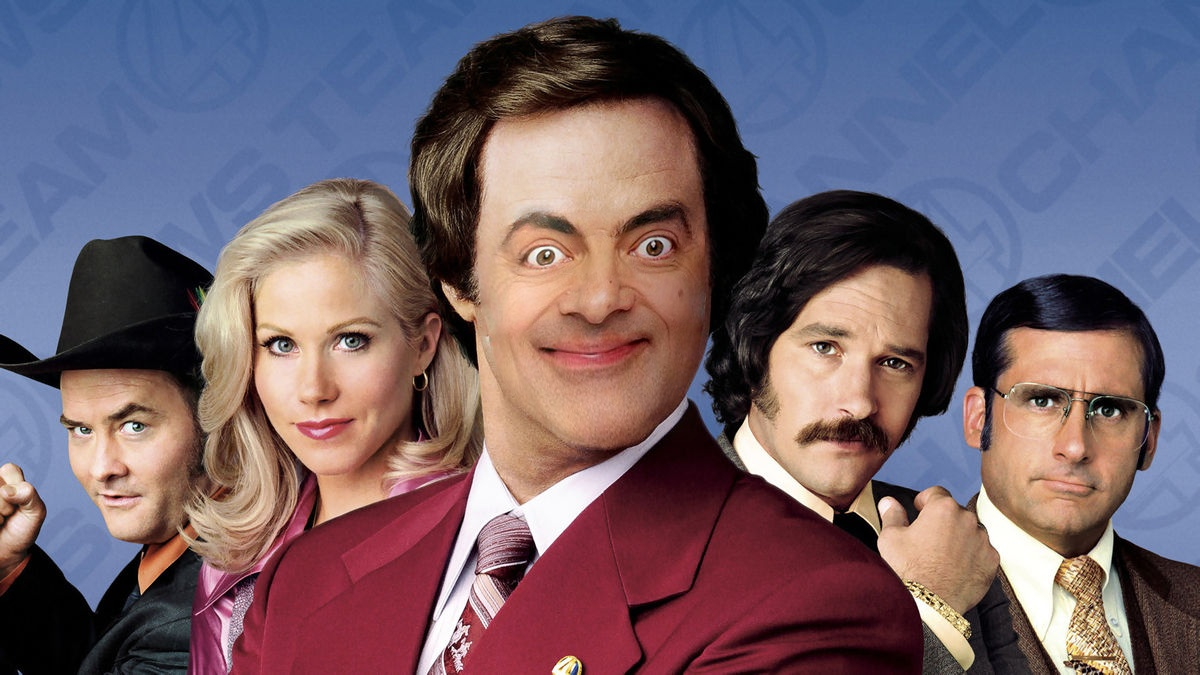
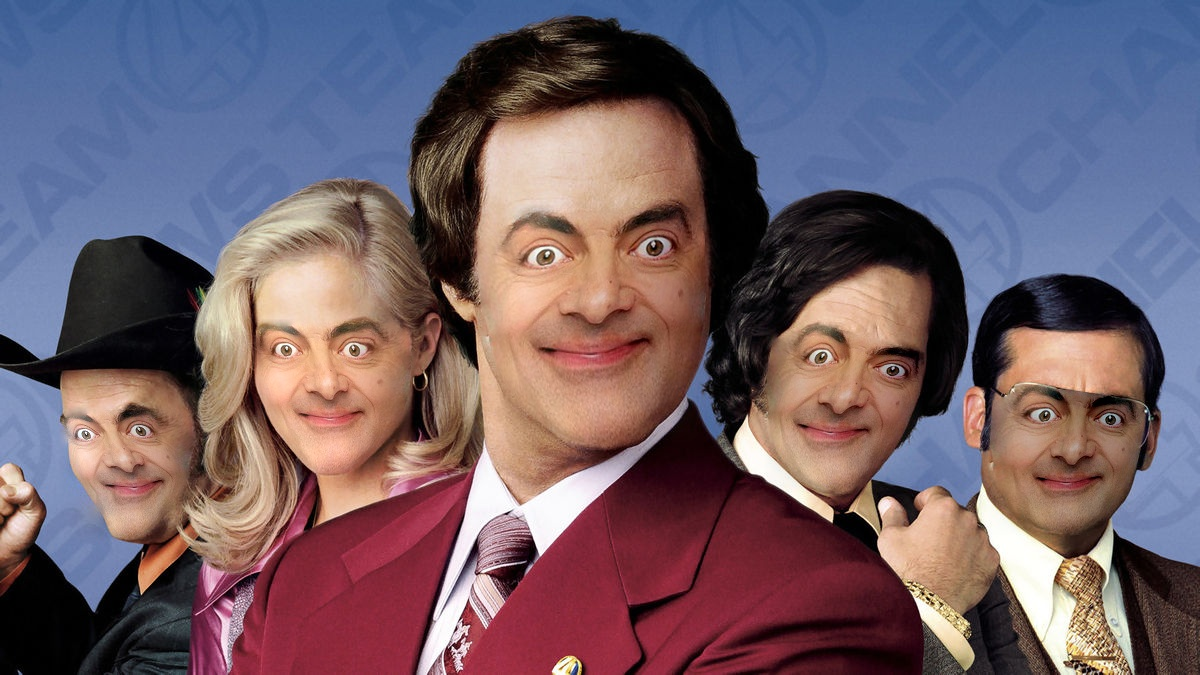
editiong the api to work differt mode options

diff --git a/Service/faceswap.py b/Service/faceswap.py
@@ -1,3 +1,10 @@
+import cv2
+import magic
+import tempfile
+import base64
+import numpy as np
+from PIL import Image
+from faceSwap import FaceSwap
 from inspect import getsourcefile
 import os.path
 import sys
@@ -8,18 +15,11 @@ parent_dir = current_dir[:current_dir.rfind(os.path.sep)]
 
 sys.path.insert(0, parent_dir)
 
-from faceSwap import FaceSwap
-from PIL import Image
-import numpy as np
-import base64
-import tempfile
-import magic
-import cv2
-
 
 def byte_to_img(input_image):
     binary_image = base64.b64decode(input_image)
-    file_format = magic.from_buffer(base64.b64decode(input_image), mime=True).split('/')[1]
+    file_format = magic.from_buffer(
+        base64.b64decode(input_image), mime=True).split('/')[1]
 
     f = tempfile.NamedTemporaryFile(suffix='*.' + str(file_format))
     f.write(binary_image)
@@ -28,7 +28,7 @@ def byte_to_img(input_image):
     return image
 
 
-def face_swap(input_image,meme_image):
+def face_swap(input_image, meme_image):
     inputImage = np.array(byte_to_img(input_image))
     memeImage = np.array(byte_to_img(meme_image))
 
@@ -36,8 +36,8 @@ def face_swap(input_image,meme_image):
     memeImage = cv2.cvtColor(memeImage, cv2.COLOR_BGR2RGB)
 
     fs = FaceSwap()
-    result = fs.faceSwap(inputImage,memeImage)
-    cv2.imwrite("output.jpg",result)
+    result = fs.faceSwap(inputImage, memeImage, mode="apply_on_all")
+    cv2.imwrite("output.jpg", result)
 
     with open("output.jpg", 'rb') as f:
         img = f.read()
